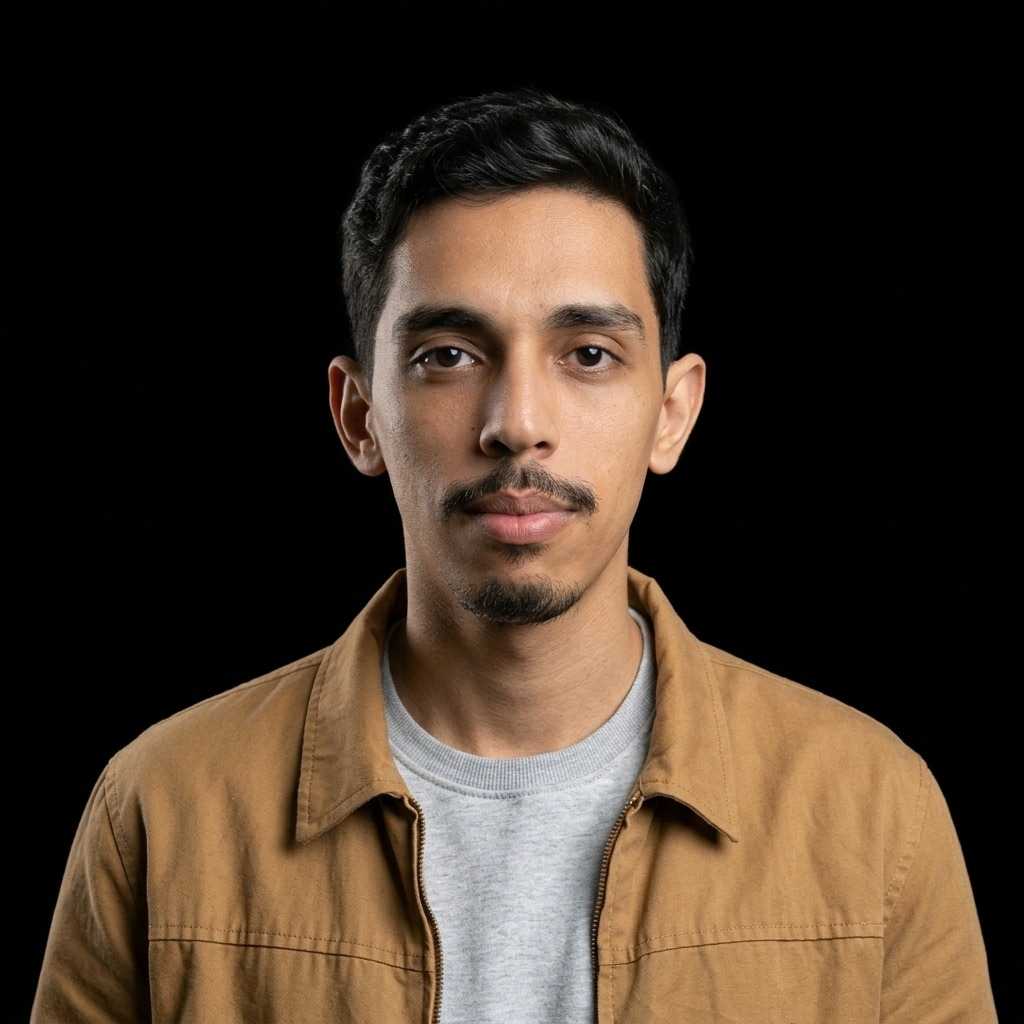
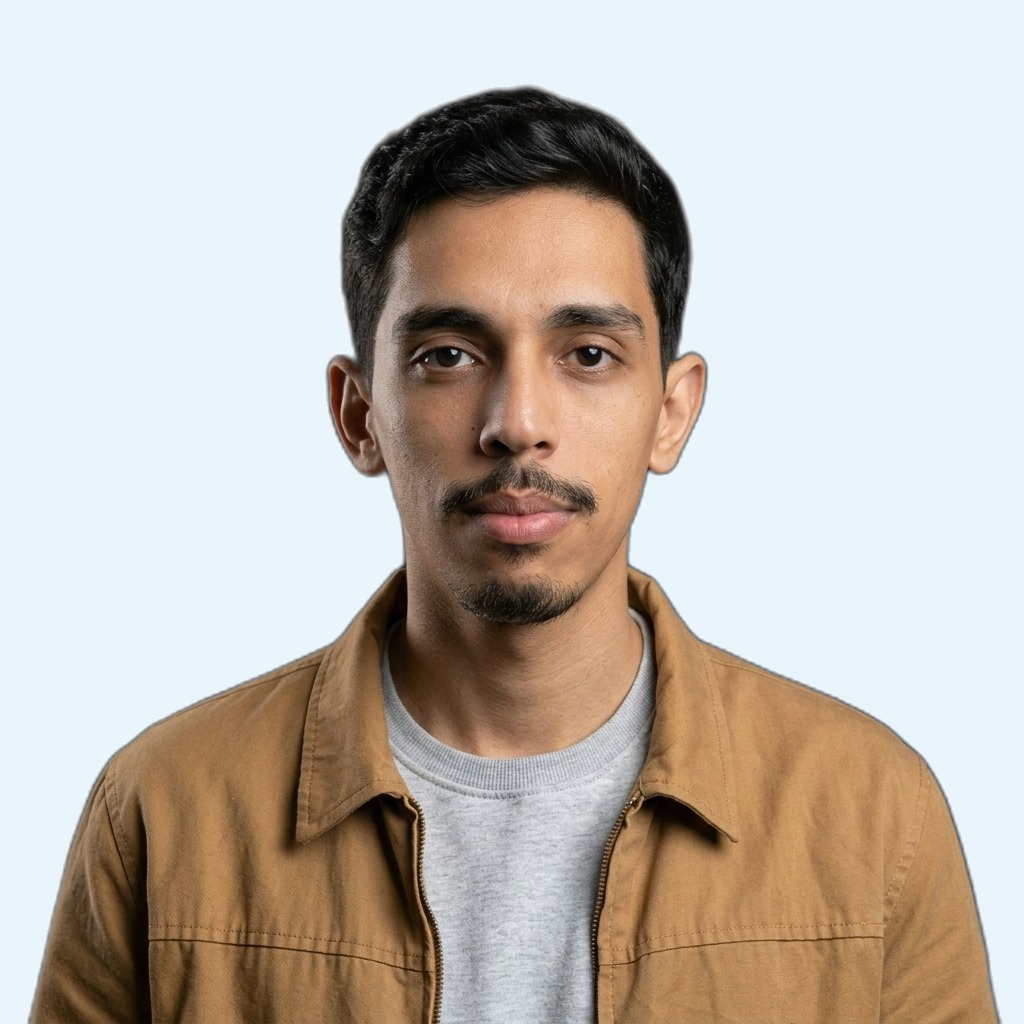
prueeba
quedaorn cosas bien pero hay que mejorar

diff --git a/src/components/sections/HeroBackground.tsx b/src/components/sections/HeroBackground.tsx
@@ -1,0 +1,51 @@
+"use client";
+
+import Image from "next/image";
+import { useEffect, useState } from "react";
+
+const slides = [
+  { src: "/gallery/obra-01.jpg", alt: "Fachada frontal" },
+  { src: "/gallery/obra-02.jpg", alt: "Fachada con patio" },
+  { src: "/gallery/obra-03.jpg", alt: "Interior de doble altura" },
+  { src: "/gallery/obra-04.jpg", alt: "Patio exterior" },
+] as const;
+
+const INTERVAL_MS = 5500;
+
+export function HeroBackground() {
+  const [active, setActive] = useState(0);
+
+  useEffect(() => {
+    const id = window.setInterval(() => {
+      setActive((current) => (current + 1) % slides.length);
+    }, INTERVAL_MS);
+
+    return () => window.clearInterval(id);
+  }, []);
+
+  return (
+    <div aria-hidden="true" className="pointer-events-none absolute inset-0 z-0 overflow-hidden">
+      {/* Tercio izquierdo limpio para el texto. */}
+      <div className="from-bone via-sky/80 to-sky absolute inset-y-0 left-0 w-1/3 bg-gradient-to-br" />
+
+      {/* Fotos solo en los 2 tercios derechos — contain para ver la imagen completa. */}
+      <div className="bg-sky absolute inset-y-0 right-0 w-2/3 overflow-hidden">
+        {slides.map((slide, index) => (
+          <Image
+            key={slide.src}
+            src={slide.src}
+            alt=""
+            fill
+            priority={index === 0}
+            sizes="66vw"
+            className={`object-contain object-center p-2 transition-opacity duration-[1600ms] ease-in-out sm:p-3 lg:p-4 ${
+              index === active ? "opacity-[0.9]" : "opacity-0"
+            }`}
+          />
+        ))}
+        {/* Fundido suave hacia el texto. */}
+        <div className="from-bone via-bone/50 absolute inset-y-0 left-0 w-[18%] bg-gradient-to-r to-transparent" />
+      </div>
+    </div>
+  );
+}

diff --git a/src/components/sections/Hero.tsx b/src/components/sections/Hero.tsx
@@ -2,6 +2,7 @@ import Image from "next/image";
 import Link from "next/link";
 import type { CSSProperties } from "react";
 
+import { HeroBackground } from "@/components/sections/HeroBackground";
 import { ArrowIcon, ArrowUpRightIcon, PinIcon } from "@/components/ui/icons";
 import { heroPillars } from "@/data/services";
 import { brand, site, whatsappHref } from "@/data/site";
@@ -9,16 +10,17 @@ import { brand, site, whatsappHref } from "@/data/site";
 export function Hero() {
   return (
     <section className="relative isolate h-svh overflow-hidden bg-transparent text-charcoal">
-      <div className="from-bone/55 via-sky/50 to-sky-mid/45 absolute inset-x-0 top-20 right-0 bottom-8 overflow-hidden bg-gradient-to-br sm:top-[5.25rem] sm:bottom-9 lg:top-22 lg:bottom-10">
+      <div className="absolute inset-x-0 top-20 right-0 bottom-0 overflow-hidden sm:top-[5.25rem] lg:top-22">
+        <HeroBackground />
+
         <div aria-hidden="true" className="pointer-events-none absolute inset-0 z-[1] overflow-hidden">
-          {/* Sin disco: el fondo y el mallado continúan dentro del anillo; el trazo del logo los tapa. */}
           <Image
             src={brand.markOnLight}
             alt=""
             width={brand.markSize}
             height={brand.markSize}
             priority
-            className="absolute top-1/2 left-[70%] h-[24rem] w-auto -translate-x-1/2 -translate-y-1/2 opacity-[0.72] sm:h-[30rem] lg:left-[72%] lg:h-[38rem] lg:opacity-[0.8]"
+            className="absolute right-6 bottom-6 h-28 w-auto opacity-[0.85] sm:right-8 sm:bottom-8 sm:h-32 lg:right-10 lg:bottom-10 lg:h-40"
           />
         </div>
 

diff --git a/src/components/sections/WorkGallery.tsx b/src/components/sections/WorkGallery.tsx
@@ -1,0 +1,38 @@
+import Image from "next/image";
+
+const galleryPhotos = [
+  { src: "/gallery/obra-01.jpg", alt: "Patio de proyecto" },
+  { src: "/gallery/obra-02.jpg", alt: "Interior de proyecto" },
+  { src: "/gallery/obra-03.jpg", alt: "Fachada de vivienda" },
+  { src: "/gallery/obra-04.jpg", alt: "Acceso de vivienda" },
+] as const;
+
+/** Duplicamos el set para que el marquee sea continuo con pocas fotos. */
+const strip = [...galleryPhotos, ...galleryPhotos, ...galleryPhotos];
+
+export function WorkGallery() {
+  return (
+    <section aria-label="Fotos de obra" className="bg-bone/30 overflow-hidden py-10 sm:py-14">
+      <div className="work-marquee flex w-max gap-4 sm:gap-5">
+        {[0, 1].map((copy) => (
+          <div key={copy} className="flex gap-4 sm:gap-5" aria-hidden={copy === 1}>
+            {strip.map((photo, index) => (
+              <div
+                key={`${copy}-${photo.src}-${index}`}
+                className="bg-sky relative h-56 w-40 shrink-0 overflow-hidden sm:h-72 sm:w-52 lg:h-80 lg:w-60"
+              >
+                <Image
+                  src={photo.src}
+                  alt={copy === 0 ? photo.alt : ""}
+                  fill
+                  sizes="(min-width: 1024px) 240px, (min-width: 640px) 208px, 160px"
+                  className="object-cover"
+                />
+              </div>
+            ))}
+          </div>
+        ))}
+      </div>
+    </section>
+  );
+}

diff --git a/src/app/layout.tsx b/src/app/layout.tsx
@@ -71,10 +71,6 @@ export default function RootLayout({ children }: LayoutProps<"/">) {
   return (
     <html lang="es-AR" className={`${futura.variable} ${outfit.variable} h-full antialiased`}>
       <body className="bg-bone text-charcoal relative flex min-h-full flex-col">
-        <div
-          aria-hidden="true"
-          className="blueprint-grid pointer-events-none fixed inset-0 z-0 opacity-65"
-        />
         <a
           href="#contenido"
           className="focus:bg-brass sr-only focus:not-sr-only focus:fixed focus:top-4 focus:left-4 focus:z-100 focus:rounded-sm focus:px-4 focus:py-2 focus:text-sm focus:text-white"
@@ -89,6 +85,11 @@ export default function RootLayout({ children }: LayoutProps<"/">) {
           </main>
           <SiteFooter />
         </div>
+        {/* Grilla fija por encima del contenido para que se conserve en toda la página. */}
+        <div
+          aria-hidden="true"
+          className="blueprint-grid pointer-events-none fixed inset-0 z-40 mix-blend-multiply opacity-55"
+        />
       </body>
     </html>
   );

diff --git a/src/app/globals.css b/src/app/globals.css
@@ -68,10 +68,30 @@
 
 @utility blueprint-grid {
   background-image:
-    linear-gradient(to right, rgba(45, 46, 51, 0.14) 1px, transparent 1px),
-    linear-gradient(to bottom, rgba(45, 46, 51, 0.14) 1px, transparent 1px);
+    linear-gradient(to right, rgba(45, 46, 51, 0.16) 1px, transparent 1px),
+    linear-gradient(to bottom, rgba(45, 46, 51, 0.16) 1px, transparent 1px);
   background-size: 64px 64px;
 }
+
+@keyframes work-marquee {
+  from {
+    transform: translateX(0);
+  }
+  to {
+    transform: translateX(-50%);
+  }
+}
+
+@utility work-marquee {
+  animation: work-marquee 40s linear infinite;
+}
+
+@media (prefers-reduced-motion: reduce) {
+  .work-marquee {
+    animation: none;
+  }
+}
+
 
 @media (scripting: enabled) {
   [data-reveal=""] {

diff --git a/src/components/sections/Team.tsx b/src/components/sections/Team.tsx
@@ -23,7 +23,7 @@ export function Team() {
               delay={index * 110}
               className="border-charcoal/15 flex flex-col items-center border-t pt-10 text-center"
             >
-              <div className="bg-sky-mid relative mb-7 aspect-square w-full max-w-[16rem] overflow-hidden">
+              <div className="bg-sky relative mb-7 aspect-square w-full max-w-[16rem] overflow-hidden rounded-full ring-1 ring-charcoal/25">
                 {member.photo ? (
                   <Image
                     src={member.photo}
